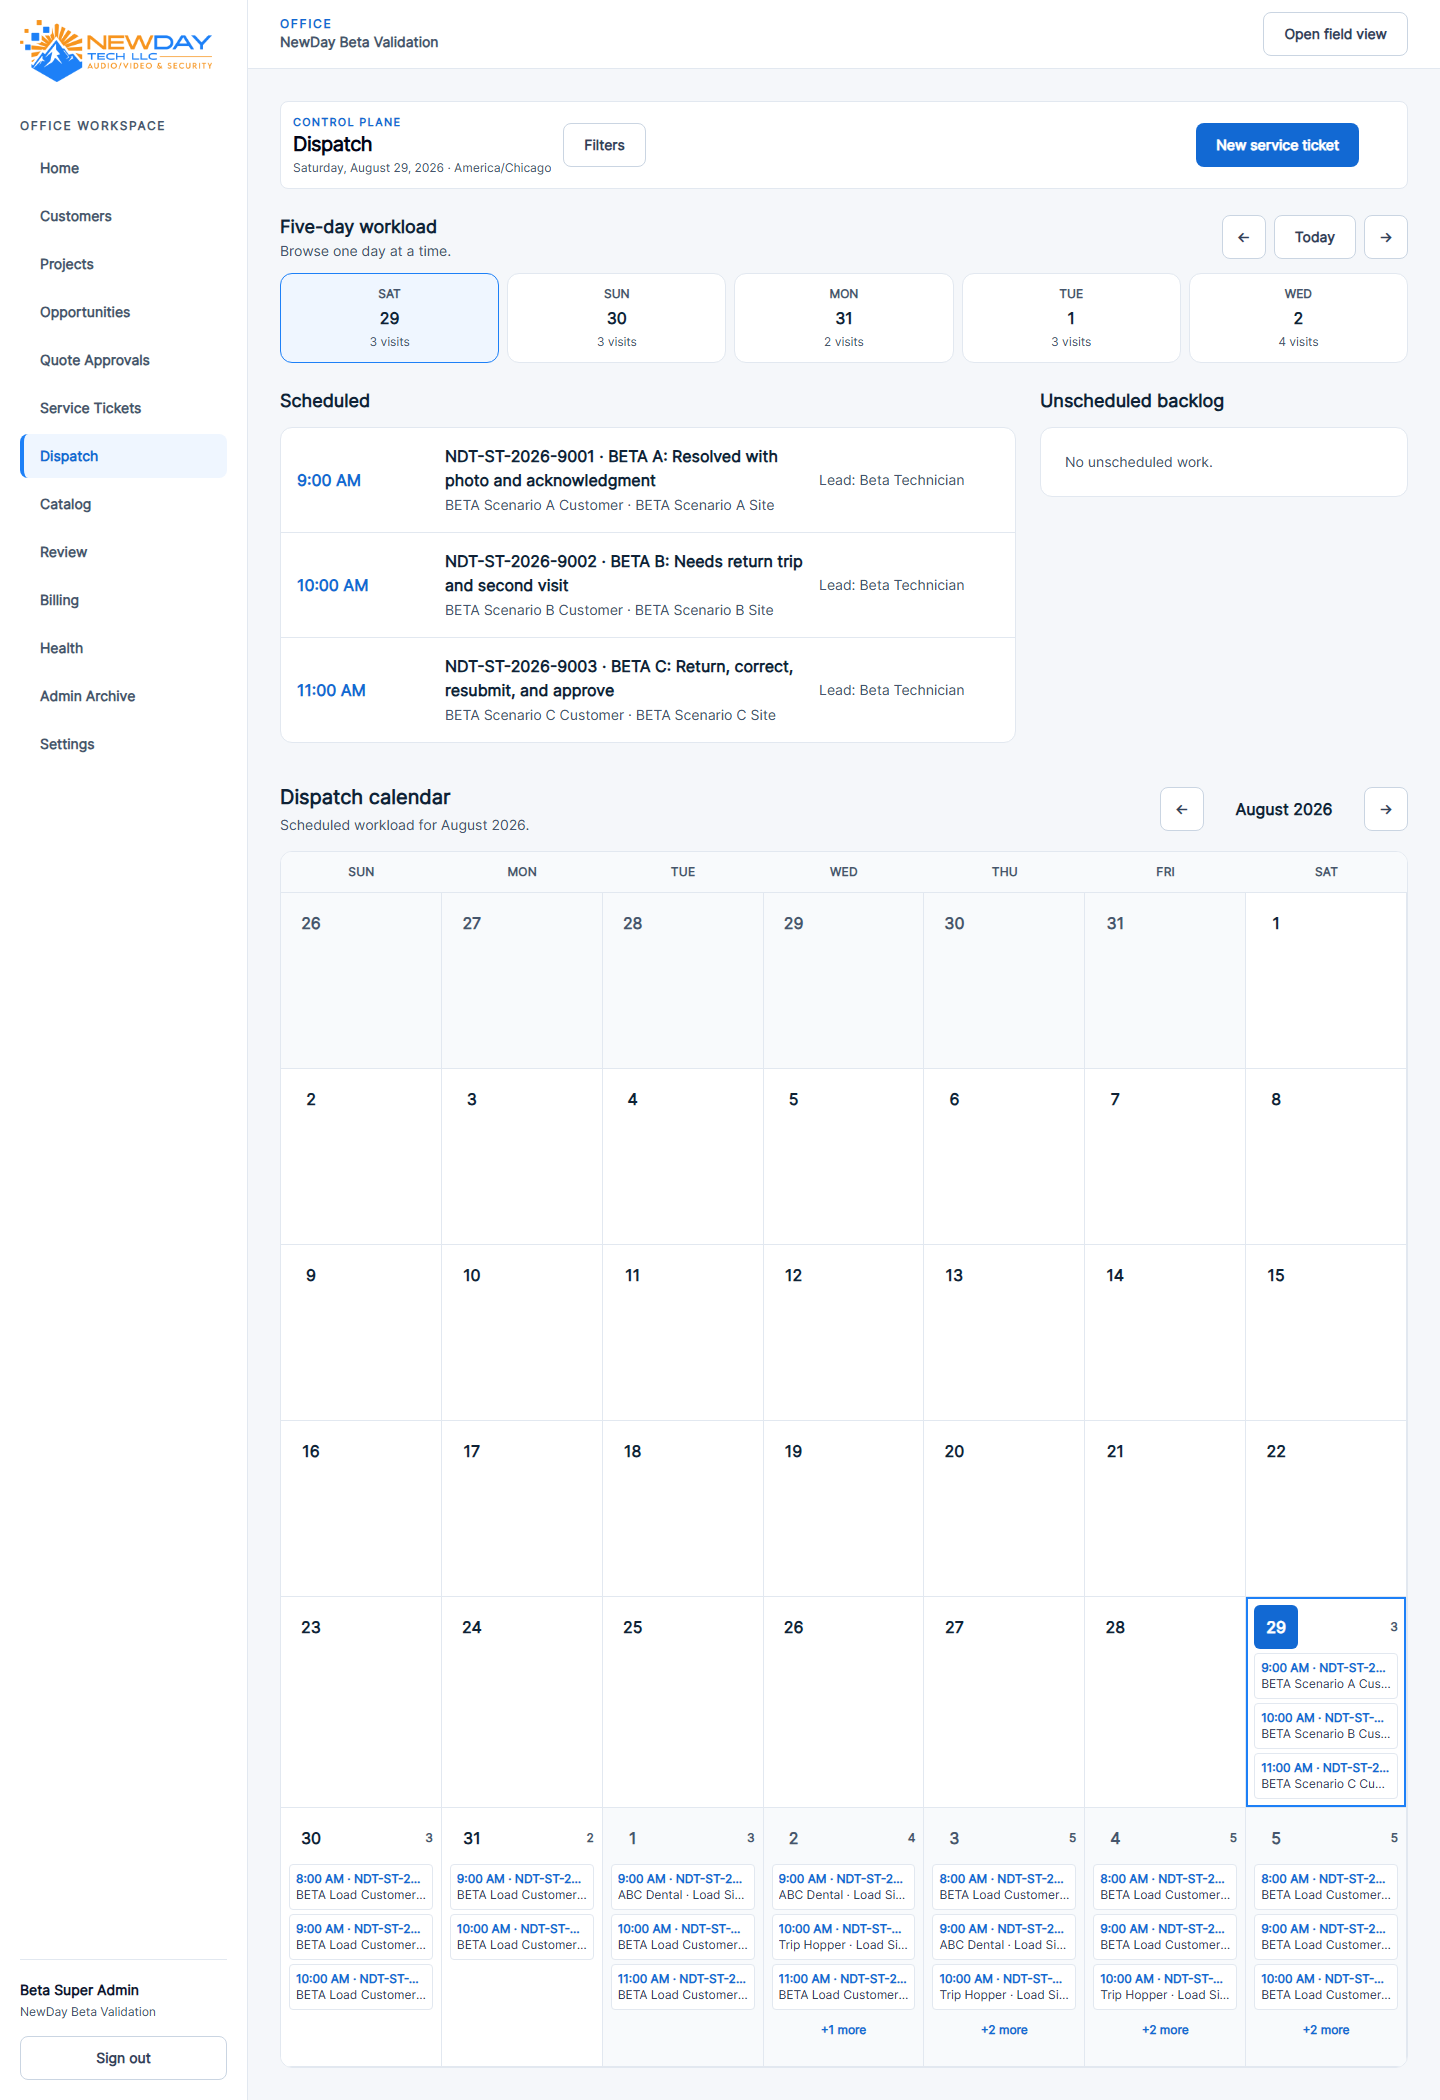
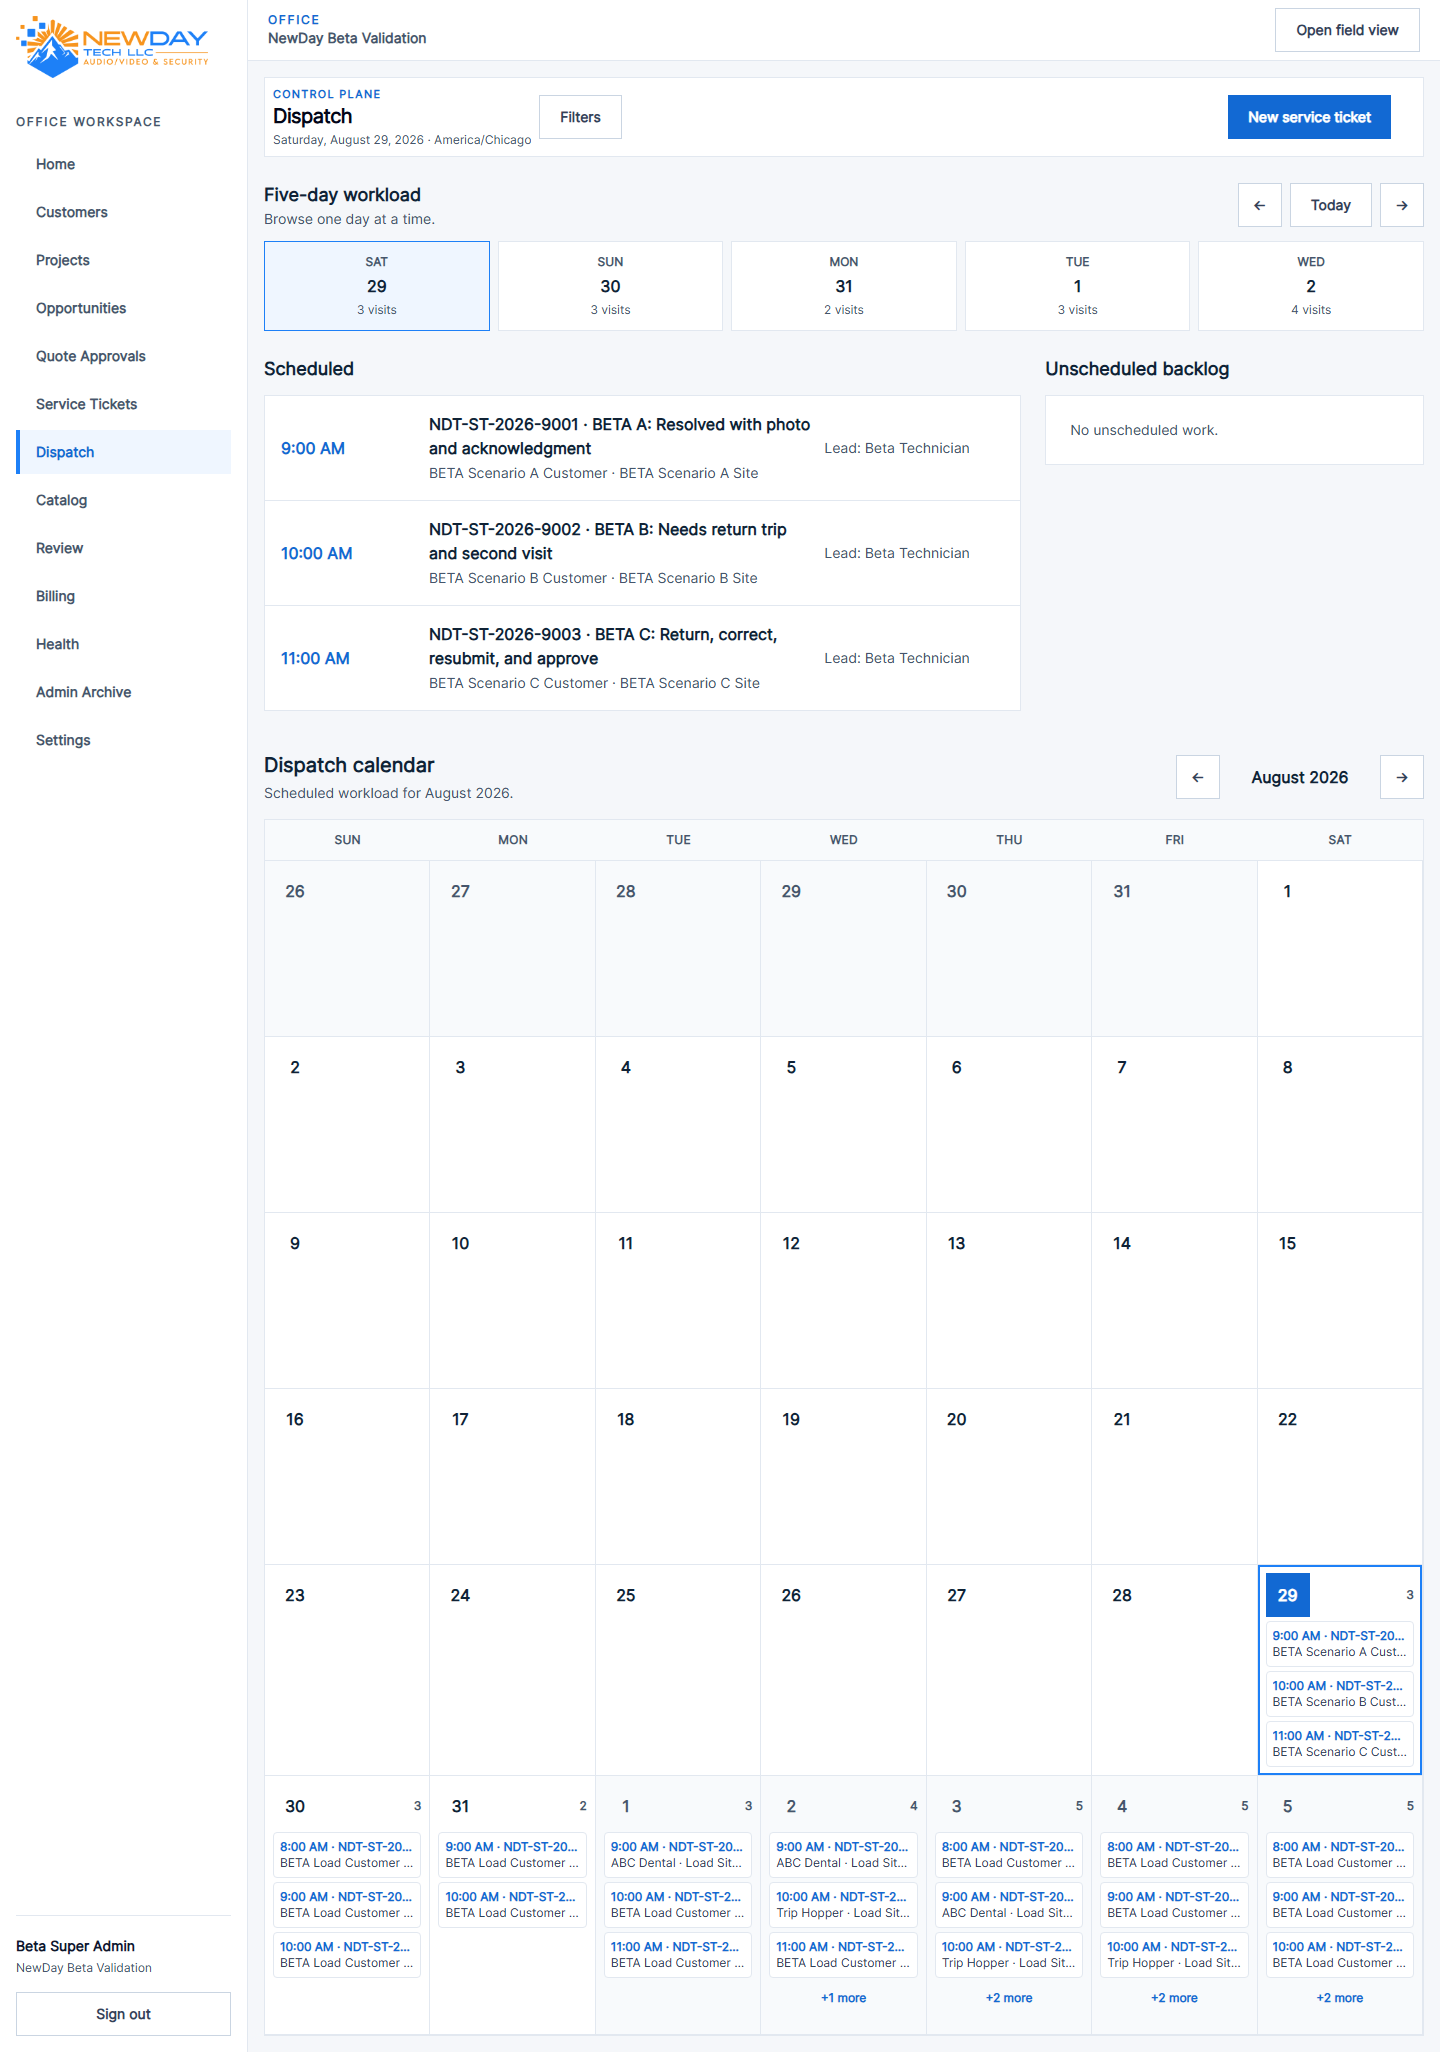
style(ui): flatten and tighten office workspaces

diff --git a/resources/css/app.css b/resources/css/app.css
@@ -245,7 +245,7 @@
     }
 
     .office-primary-toolbar {
-        @apply grid items-center gap-3 rounded-lg border border-slate-200 bg-white p-3 lg:grid-cols-[minmax(170px,auto)_minmax(200px,1fr)_minmax(0,auto)_auto_auto_auto];
+        @apply grid items-center gap-2 border border-slate-200 bg-white p-2 lg:grid-cols-[minmax(170px,auto)_minmax(200px,1fr)_minmax(0,auto)_auto_auto_auto];
     }
 
     .office-primary-toolbar-heading {
@@ -288,15 +288,15 @@
     }
 
     .office-primary-toolbar-chips {
-        @apply flex flex-wrap items-center gap-2 border-t border-slate-200 pt-3 lg:col-span-6;
+        @apply flex flex-wrap items-center gap-1.5 border-t border-slate-200 pt-2 lg:col-span-6;
     }
 
     .office-primary-toolbar .office-workspace-tabs {
-        @apply mt-0 min-h-11 rounded-lg border border-slate-300 bg-slate-50 p-0.5;
+        @apply mt-0 min-h-11 border border-slate-300 bg-slate-50 p-0;
     }
 
     .office-primary-toolbar .office-workspace-tab {
-        @apply min-h-11 rounded-md border-0 px-3;
+        @apply min-h-11 border-0 px-3;
     }
 
     .office-primary-toolbar .office-workspace-tab-active {
@@ -316,7 +316,7 @@
     }
 
     .office-filter-panel {
-        @apply absolute right-0 top-[calc(100%+0.5rem)] z-30 w-[min(44rem,calc(100vw-2rem))] rounded-lg border border-slate-300 bg-white p-4 shadow-xl;
+        @apply absolute right-0 top-[calc(100%+0.25rem)] z-30 w-[min(44rem,calc(100vw-1rem))] border border-slate-300 bg-white p-3 shadow-none;
     }
 
     .office-filter-chip {
@@ -324,11 +324,11 @@
     }
 
     .office-view-switcher {
-        @apply inline-flex min-h-11 items-center rounded-lg border border-slate-300 bg-slate-50 p-0.5;
+        @apply inline-flex min-h-11 items-center border border-slate-300 bg-slate-50 p-0;
     }
 
     .office-view-switcher a {
-        @apply inline-flex min-h-10 items-center rounded-md px-3 text-sm font-bold text-slate-600 hover:text-slate-950;
+        @apply inline-flex min-h-10 items-center px-3 text-sm font-bold text-slate-600 hover:text-slate-950;
     }
 
     .office-view-switcher a[aria-current="page"] {
@@ -344,11 +344,11 @@
     }
 
     .office-view-menu-panel {
-        @apply absolute left-0 top-[calc(100%+0.5rem)] z-30 grid min-w-56 rounded-lg border border-slate-300 bg-white p-1 shadow-xl;
+        @apply absolute left-0 top-[calc(100%+0.25rem)] z-30 grid min-w-56 border border-slate-300 bg-white p-0 shadow-none;
     }
 
     .office-view-menu-panel a {
-        @apply inline-flex min-h-11 items-center rounded-md px-3 text-sm font-bold text-slate-700 hover:bg-blue-50 hover:text-brand-blue-dark;
+        @apply inline-flex min-h-11 items-center px-3 text-sm font-bold text-slate-700 hover:bg-blue-50 hover:text-brand-blue-dark;
     }
 
     .office-view-menu-panel a[aria-current="page"] {
@@ -356,7 +356,7 @@
     }
 
     .office-state-panel {
-        @apply rounded-lg border border-slate-200 bg-white px-5 py-10 text-center;
+        @apply border border-slate-200 bg-white px-4 py-6 text-center;
     }
 
     .office-state-panel-title {
@@ -385,7 +385,7 @@
     }
 
     .office-alert {
-        @apply mb-4 rounded-lg border px-4 py-3 text-sm font-semibold;
+        @apply mb-3 border px-3 py-2 text-sm font-semibold;
     }
 
     .office-alert-success {
@@ -455,7 +455,7 @@
     }
 
     .office-workspace-tabs {
-        @apply mt-5 flex min-h-11 gap-1 overflow-x-auto border-b border-slate-300;
+        @apply mt-3 flex min-h-11 gap-0 overflow-x-auto border-b border-slate-300;
     }
 
     .office-workspace-tab {
@@ -467,11 +467,11 @@
     }
 
     .office-filter-toolbar {
-        @apply mt-5 grid gap-3 rounded-lg border border-slate-200 bg-white p-3 lg:items-end;
+        @apply mt-3 grid gap-2 border border-slate-200 bg-white p-2 lg:items-end;
     }
 
     .office-table-wrap {
-        @apply mt-5 hidden overflow-hidden rounded-lg border border-slate-200 bg-white lg:block;
+        @apply mt-3 hidden overflow-hidden border border-slate-200 bg-white lg:block;
     }
 
     .office-data-table {
@@ -483,11 +483,11 @@
     }
 
     .office-data-table th {
-        @apply border-b border-slate-200 px-4 py-3 text-xs font-bold uppercase tracking-[0.08em] text-slate-600;
+        @apply border-b border-slate-200 px-3 py-2 text-xs font-bold uppercase tracking-[0.08em] text-slate-600;
     }
 
     .office-data-table td {
-        @apply border-b border-slate-200 px-4 py-3 align-middle text-sm text-slate-700;
+        @apply border-b border-slate-200 px-3 py-2.5 align-middle text-sm text-slate-700;
     }
 
     .office-data-table tbody tr:last-child td {
@@ -511,11 +511,11 @@
     }
 
     .office-mobile-list {
-        @apply mt-5 space-y-3 lg:hidden;
+        @apply mt-3 space-y-1 lg:hidden;
     }
 
     .office-mobile-card {
-        @apply block min-h-11 rounded-lg border border-slate-200 bg-white p-4 transition-colors hover:border-slate-300 hover:bg-slate-50;
+        @apply block min-h-11 border border-slate-200 bg-white p-3 transition-colors hover:border-slate-300 hover:bg-slate-50;
     }
 
     .office-mobile-primary-nav {
@@ -548,23 +548,23 @@
     }
 
     .office-detail-grid {
-        @apply mt-6 grid gap-6 xl:grid-cols-[minmax(0,1fr)_minmax(280px,360px)];
+        @apply mt-4 grid gap-4 xl:grid-cols-[minmax(0,1fr)_minmax(280px,360px)];
     }
 
     .office-detail-main {
-        @apply min-w-0 space-y-6;
+        @apply min-w-0 space-y-4;
     }
 
     .office-detail-rail {
-        @apply min-w-0 space-y-4 xl:sticky xl:top-6 xl:self-start;
+        @apply min-w-0 space-y-3 xl:sticky xl:top-4 xl:self-start;
     }
 
     .office-detail-section {
-        @apply scroll-mt-6 overflow-hidden rounded-lg border border-slate-200 bg-white;
+        @apply scroll-mt-4 overflow-hidden border border-slate-200 bg-white;
     }
 
     .office-detail-section-header {
-        @apply flex flex-col gap-3 border-b border-slate-200 px-5 py-4 sm:flex-row sm:items-center sm:justify-between;
+        @apply flex flex-col gap-2 border-b border-slate-200 px-4 py-3 sm:flex-row sm:items-center sm:justify-between;
     }
 
     .office-detail-section-title {
@@ -576,7 +576,7 @@
     }
 
     .office-detail-row {
-        @apply min-h-16 px-5 py-4 transition-colors hover:bg-blue-50/45 focus-within:bg-blue-50/60;
+        @apply min-h-14 px-4 py-3 transition-colors hover:bg-blue-50/45 focus-within:bg-blue-50/60;
     }
 
     .office-detail-empty {
@@ -584,7 +584,7 @@
     }
 
     .office-detail-form-body {
-        @apply px-5 py-5;
+        @apply px-4 py-4;
     }
 
     .office-detail-form-separated {
@@ -592,7 +592,7 @@
     }
 
     .office-detail-form-inset {
-        @apply mt-3 rounded-lg border border-slate-200 bg-slate-50 p-4 sm:p-5;
+        @apply mt-2 border border-slate-200 bg-slate-50 p-3 sm:p-4;
     }
 
     .office-detail-form-grid {
@@ -612,7 +612,7 @@
     }
 
     .invoice-command-bar {
-        @apply sticky top-0 z-30 -mx-4 flex flex-col gap-3 border-y border-slate-200 bg-white px-4 py-3 shadow-sm sm:-mx-6 sm:px-6 lg:-mx-8 lg:grid lg:grid-cols-[minmax(260px,1fr)_auto_minmax(320px,auto)] lg:items-center lg:px-8;
+        @apply sticky top-0 z-30 -mx-2 flex flex-col gap-3 border-y border-slate-200 bg-white px-2 py-3 sm:-mx-3 sm:px-3 lg:-mx-4 lg:grid lg:grid-cols-[minmax(260px,1fr)_auto_minmax(320px,auto)] lg:items-center lg:px-4;
     }
 
     .invoice-command-bar-identity {
@@ -640,7 +640,7 @@
     }
 
     .invoice-billing-summary {
-        @apply mt-5 grid gap-5 rounded-lg border border-slate-200 bg-white p-5 sm:grid-cols-2 xl:grid-cols-[minmax(280px,1fr)_minmax(520px,1.7fr)_auto] xl:items-center;
+        @apply mt-3 grid gap-3 border border-slate-200 bg-white p-3 sm:grid-cols-2 xl:grid-cols-[minmax(280px,1fr)_minmax(520px,1.7fr)_auto] xl:items-center;
     }
 
     .invoice-billing-meta {
@@ -656,7 +656,7 @@
     }
 
     .invoice-workspace {
-        @apply mt-6 space-y-6;
+        @apply mt-4 space-y-4;
     }
 
     .invoice-lower-section {
@@ -915,4 +915,31 @@ body:has(dialog[data-payment-overlay][open]) {
     .print-section:first-of-type { break-before: auto; }
     .print-document-footer { break-inside: avoid; }
     a { color: inherit !important; text-decoration: none !important; }
+}
+
+/* Office modernization: dense, flat operational surfaces. Semantic pills stay rounded. */
+@media screen {
+    .office-shell .surface,
+    .office-shell .rounded-xl,
+    .office-shell .rounded-lg,
+    .office-shell .rounded-md,
+    .office-shell .button-primary,
+    .office-shell .button-secondary,
+    .office-shell .button-danger,
+    .office-shell .form-input,
+    .office-shell .form-textarea {
+        border-radius: 0;
+    }
+
+    .office-shell .surface,
+    .office-shell .office-primary-toolbar,
+    .office-shell .office-filter-panel,
+    .office-shell .office-view-menu-panel,
+    .office-shell .office-table-wrap,
+    .office-shell .office-mobile-card,
+    .office-shell .office-detail-section,
+    .office-shell .office-detail-form-inset,
+    .office-shell .invoice-billing-summary {
+        box-shadow: none;
+    }
 }

diff --git a/tests/Browser/beta-accessibility.spec.js b/tests/Browser/beta-accessibility.spec.js
@@ -176,14 +176,14 @@ test.describe('Projects V1', () => {
             expect(await page.evaluate(() => document.body.scrollWidth <= innerWidth)).toBeTruthy();
             const bodyPadding = await page.locator('.office-detail-form-body').evaluateAll((forms) => forms.map((form) => Number.parseFloat(getComputedStyle(form).paddingLeft)));
             expect(bodyPadding.length).toBeGreaterThan(0);
-            expect(bodyPadding.every((padding) => padding === 20)).toBeTruthy();
+            expect(bodyPadding.every((padding) => padding === 16)).toBeTruthy();
             await page.getByText('Edit Workstream', { exact: true }).first().click();
             const insetTreatment = await page.locator('form.office-detail-form-inset:visible').first().evaluate((form) => ({
                 padding: Number.parseFloat(getComputedStyle(form).paddingLeft),
                 border: Number.parseFloat(getComputedStyle(form).borderLeftWidth),
                 background: getComputedStyle(form).backgroundColor,
             }));
-            expect(insetTreatment.padding).toBeGreaterThanOrEqual(16);
+            expect(insetTreatment.padding).toBeGreaterThanOrEqual(viewport.width < 640 ? 12 : 16);
             expect(insetTreatment.border).toBe(1);
             expect(insetTreatment.background).not.toBe('rgba(0, 0, 0, 0)');
             const shortControls = await page.locator('form:visible input, form:visible select, form:visible textarea, form:visible button').evaluateAll((elements) => elements

diff --git a/resources/views/components/layouts/office.blade.php b/resources/views/components/layouts/office.blade.php
@@ -17,12 +17,12 @@
     <title>{{ $title ?? 'Office' }} | NewDay Tech Ops</title>
     @vite(['resources/css/app.css', 'resources/js/app.js'])
 </head>
-<body class="bg-canvas">
+<body class="office-shell bg-canvas">
     <div data-connectivity-banner hidden class="bg-amber-100 px-4 py-2 text-center text-sm font-bold text-amber-900" role="status">
         You’re offline. Changes cannot be saved until connectivity returns.
     </div>
     <div class="min-h-screen lg:grid lg:grid-cols-[248px_minmax(0,1fr)]">
-        <aside class="hidden border-r border-slate-200 bg-white p-5 lg:flex lg:flex-col">
+        <aside class="hidden border-r border-slate-200 bg-white p-4 lg:flex lg:flex-col">
             <x-organization-logo variant="full" class="max-h-20 w-48 object-contain object-left" />
             <div class="mt-9 text-xs font-bold uppercase tracking-[0.14em] text-slate-600">Office workspace</div>
             <nav class="mt-3" aria-label="Office">
@@ -73,7 +73,7 @@
         </aside>
 
         <div>
-            <header class="border-b border-slate-200 bg-white px-4 py-3 sm:px-6 lg:px-8">
+            <header class="border-b border-slate-200 bg-white px-3 py-2 sm:px-4 lg:px-5">
                 <div class="{{ $contentWidthClass }} flex items-center justify-between gap-4" data-office-header-width="{{ $width }}">
                     <div class="flex items-center gap-3">
                         <x-organization-logo variant="mark" class="h-10 w-10 object-contain lg:hidden" />
@@ -103,7 +103,7 @@
                     @if($activeMembership->hasCapability('visits.archive.manage'))<a href="{{ route('office.admin.archive.index') }}" class="inline-flex min-h-11 shrink-0 items-center rounded-lg px-3 text-sm font-bold {{ request()->routeIs('office.admin.archive.*') ? 'bg-blue-50 text-brand-blue-dark' : 'text-slate-600' }}">Archive</a>@endif
                     @if($activeMembership->hasCapability('organization.settings.manage') || $activeMembership->hasCapability('billing.settings.manage') || $activeMembership->hasCapability('payments.view') || $activeMembership->hasCapability('opportunities.admin') || $activeMembership->hasCapability('proposal.templates.manage'))<a href="{{ route('office.settings.index') }}" class="inline-flex min-h-11 shrink-0 items-center rounded-lg px-3 text-sm font-bold {{ request()->routeIs('office.settings.*') ? 'bg-blue-50 text-brand-blue-dark' : 'text-slate-600' }}">Settings</a>@endif
             </nav>
-            <main id="main-content" class="{{ $contentWidthClass }} p-4 sm:p-6 lg:p-8" data-office-width="{{ $width }}">
+            <main id="main-content" class="{{ $contentWidthClass }} p-2 sm:p-3 lg:p-4" data-office-width="{{ $width }}">
                 {{ $slot }}
             </main>
         </div>

diff --git a/docs/ui-review/office-modernization/checkpoint-2/REVIEW.md b/docs/ui-review/office-modernization/checkpoint-2/REVIEW.md
@@ -13,10 +13,12 @@ Checkpoint 2 applies the approved shared Office workspace language to the remain
 
 Search, filters, selected dates, calendar state, pagination, capability-gated actions, Catalog tabs, Billing tabs, and responsive table/card behavior remain server-rendered and route-backed. Form-heavy Settings, Catalog Labor Costs, and Proposal Library bodies retain their established workflows; only their shared workspace framing changed.
 
+Following owner review, the shared Office treatment was tightened further: page gutters and component padding are smaller, operational surfaces use square corners and no decorative shadows, and tables/cards use denser spacing. Semantic status and priority pills remain rounded so state continues to scan quickly.
+
 ## Responsive review
 
-- 390px: stacked toolbar, full-width primary actions, filter disclosure, mobile cards/agendas, and no page-level horizontal overflow.
-- 1440px: compact workspace toolbar, dense operational tables/calendar, and aligned actions.
+- 390px: stacked toolbar, full-width primary actions, filter disclosure, compact flat cards/agendas, and no page-level horizontal overflow.
+- 1440px: compact workspace toolbar, dense flat operational tables/calendar, square surfaces, and aligned actions.
 - Review screenshots are stored in `docs/ui-review/office-modernization/checkpoint-2/after` for ten representative workspaces at both widths.
 
 ## Validation
@@ -32,7 +34,7 @@ Search, filters, selected dates, calendar state, pagination, capability-gated ac
 - Beta fixture: exact fixture validation passed; Beta Hardening passed 8 tests / 56 assertions.
 - Beta benchmark: all budgets passed; highest p95 was Dispatch at 25.3 ms and highest query count was Office Dashboard at 36.
 - Focused Checkpoint 2 Playwright/axe: passed across 390px and 1440px for ten representative workspaces.
-- Full Playwright/axe: 33 passed / 33 intentionally skipped in 3.4 minutes.
+- Full Playwright/axe: 33 passed / 33 intentionally skipped in 3.3 minutes after a clean isolated beta reset.
 - `git diff --check`: passed.
 
 ## Known limitations
